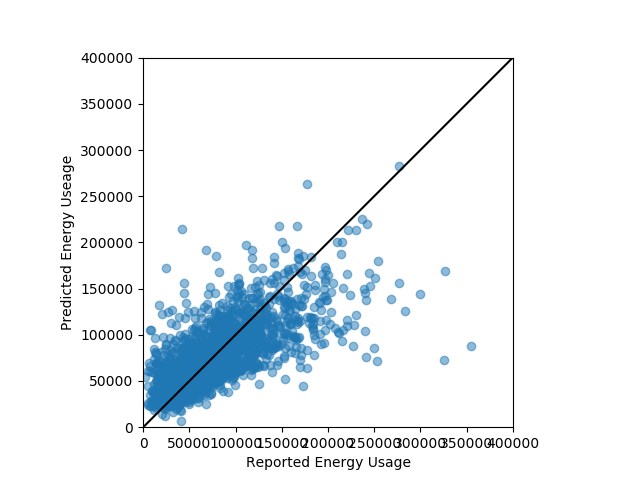
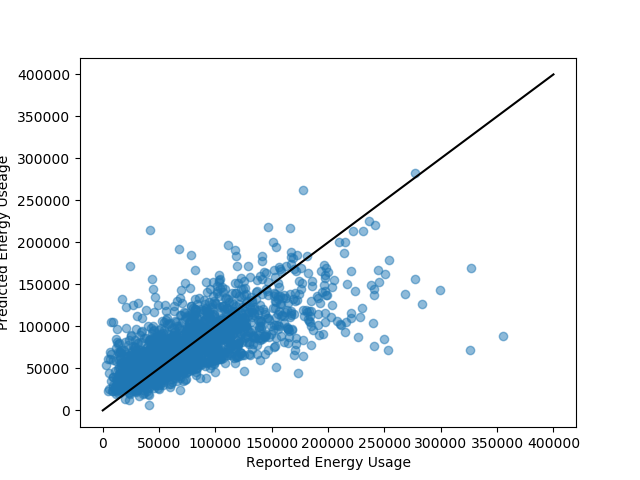
Fixed plotting files to create seperate plots

diff --git a/make_plots.py b/make_plots.py
@@ -118,6 +118,7 @@ def create_results_plot(energy_prediction, y_test):
     plt.ylim(0, 400000)
     plt.gca().set_aspect('equal', adjustable='box')
     x = np.linspace(0, 400000)
+    plt.figure(0)
     plt.plot(x, x, color='black')
     plt.scatter(y_test, energy_prediction, alpha=.5)
     plt.ylabel('Predicted Energy Useage')
@@ -171,6 +172,7 @@ def plot_residual(energy_prediction, y_test):
     '''
 
     residual = energy_prediction - y_test
+    plt.figure(1)
     plt.scatter(energy_prediction, residual)
     plt.ylabel('Residual')
     plt.xlabel('Predicted Energy Usage')
@@ -194,5 +196,4 @@ if __name__=="__main__":
     plot_one_univariate(ax, "TOTSQFT")
     fig, ax = plt.subplots()
     plot_one_univariate(ax, "ACROOMS")
-    fig, ax = plt.subplots()
     plot_residual(energy_prediction, y_test)
